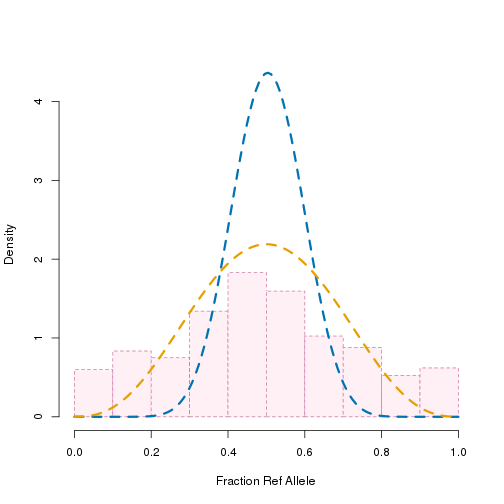
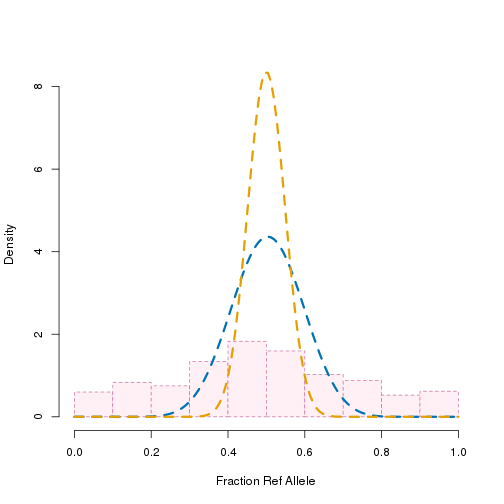
update

diff --git a/vignettes/npbin-dnase.md b/vignettes/npbin-dnase.md
@@ -1,7 +1,7 @@
 ---
 title: "Estimate overdispersion on the dnase dataset from the NPBin paper"
 author: "Anthony Aylward"
-date: "2018-08-03"
+date: "2018-09-13"
 output: rmarkdown::html_vignette
 vignette: >
   %\VignetteIndexEntry{Vignette Title}
@@ -20,11 +20,6 @@ package.
 ```r
 library(chenimbalance)
 library(npbin)
-#> 
-#> Attaching package: 'npbin'
-#> The following object is masked from 'package:chenimbalance':
-#> 
-#>     color_palette
 total_reads <- dnase[["m"]]
 data <- data.frame(
   total = total_reads,
@@ -146,6 +141,7 @@ Optimize the overdispersion parameter
 ```r
 optimized_overdispersion_details <- optimize_overdispersion_parameter(
   w_grad,
+  w
   overdispersion_details[["b_and_sse"]],
   overdispersion_details[["b_choice"]],
   overdispersion_details[["sse"]],
@@ -163,9 +159,11 @@ plot_distributions(
   optimized_overdispersion_details[["e_combined_sorted_binned"]],
   yuplimit = 0.15
 )
+#> Error: <text>:4:3: unexpected symbol
+#> 3:   w
+#> 4:   overdispersion_details
+#>      ^
 ```
-
-![plot of chunk dnase_optimize_parameter](figure/dnase_optimize_parameter-1.png)
 
 Check the optimized value
 
@@ -176,10 +174,10 @@ list(
   sse = optimized_overdispersion_details[["sse"]]
 )
 #> $b
-#> [1] 0.1109375
+#> [1] 0.008984375
 #> 
 #> $sse
-#> [1] 0.0006221425
+#> [1] 0.001672135
 ```
 
 Plot the parameter search space
@@ -215,8 +213,8 @@ plot(
 
 ![plot of chunk dnase_plot_space](figure/dnase_plot_space-1.png)
 
-Compute the symmetric shape parameter and plot the estimated null beta (teal)
-superimposed with the null beta estimated from NPBin (gold).
+Compute the symmetric shape parameter and plot the estimated null beta (gold)
+superimposed with the null beta estimated from NPBin (blue).
 
 
 ```r

diff --git a/vignettes/npbin-atac.md b/vignettes/npbin-atac.md
@@ -1,7 +1,7 @@
 ---
 title: "Estimate overdispersion on the ATAC-seq dataset from the NPBin paper"
 author: "Anthony Aylward"
-date: "2018-08-03"
+date: "2018-09-13"
 output: rmarkdown::html_vignette
 vignette: >
   %\VignetteIndexEntry{Vignette Title}
@@ -20,6 +20,11 @@ package.
 ```r
 library(chenimbalance)
 library(npbin)
+#> 
+#> Attaching package: 'npbin'
+#> The following object is masked from 'package:chenimbalance':
+#> 
+#>     color_palette
 total_reads <- atac[["m"]]
 data <- data.frame(
   total = total_reads,
@@ -141,6 +146,7 @@ Optimize the overdispersion parameter
 ```r
 optimized_overdispersion_details <- optimize_overdispersion_parameter(
   w_grad,
+  w,
   overdispersion_details[["b_and_sse"]],
   overdispersion_details[["b_choice"]],
   overdispersion_details[["sse"]],
@@ -210,8 +216,8 @@ plot(
 
 ![plot of chunk atac_plot_space](figure/atac_plot_space-1.png)
 
-Compute the symmetric shape parameter and plot the estimated null beta (teal)
-superimposed with the null beta estimated from NPBin (gold).
+Compute the symmetric shape parameter and plot the estimated null beta (gold)
+superimposed with the null beta estimated from NPBin (blue).
 
 
 ```r

diff --git a/vignettes/npbin-ctcf.md b/vignettes/npbin-ctcf.md
@@ -1,7 +1,7 @@
 ---
 title: "Estimate overdispersion on the ctcf dataset from the NPBin paper"
 author: "Anthony Aylward"
-date: "2018-08-03"
+date: "2018-09-13"
 output: rmarkdown::html_vignette
 vignette: >
   %\VignetteIndexEntry{Vignette Title}
@@ -141,6 +141,7 @@ Optimize the overdispersion parameter
 ```r
 optimized_overdispersion_details <- optimize_overdispersion_parameter(
   w_grad,
+  w,
   overdispersion_details[["b_and_sse"]],
   overdispersion_details[["b_choice"]],
   overdispersion_details[["sse"]],
@@ -210,8 +211,8 @@ plot(
 
 ![plot of chunk ctcf_plot_space](figure/ctcf_plot_space-1.png)
 
-Compute the symmetric shape parameter and plot the estimated null beta (teal)
-superimposed with the null beta estimated from NPBin (gold).
+Compute the symmetric shape parameter and plot the estimated null beta (gold)
+superimposed with the null beta estimated from NPBin (blue).
 
 
 ```r
